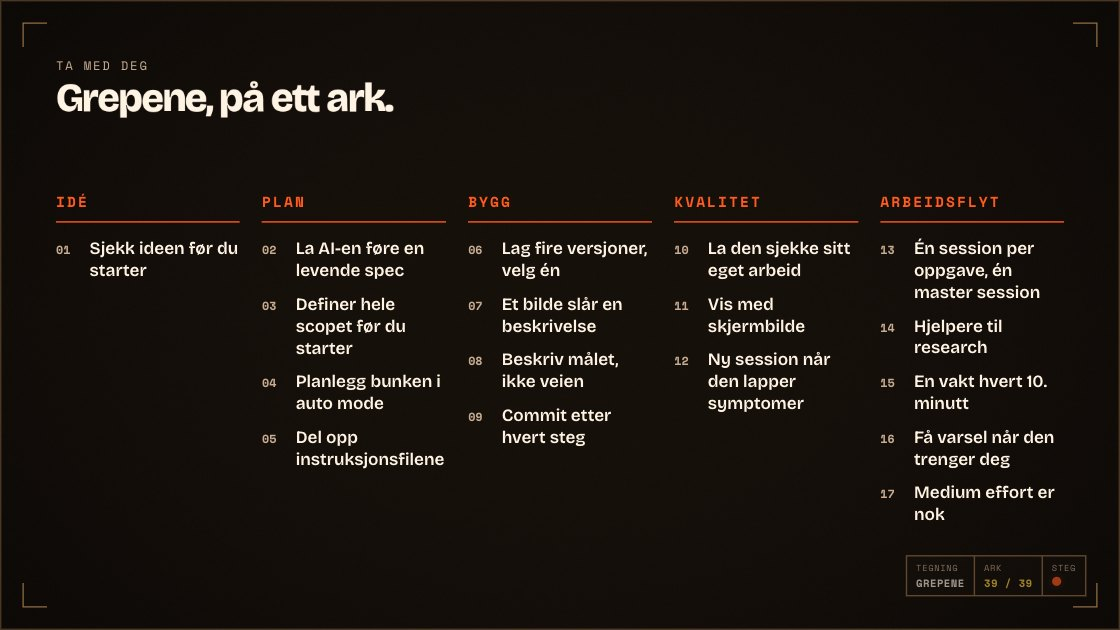
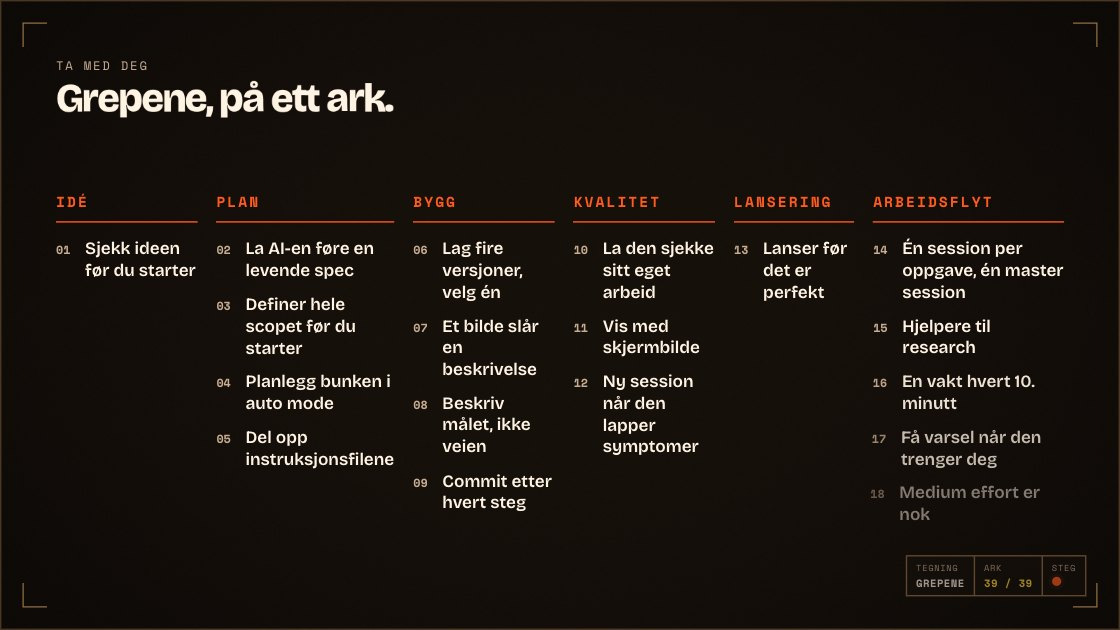
Takeaways: a Lansering column; column widths follow their tips

diff --git a/src/slides/takeaways.js b/src/slides/takeaways.js
@@ -5,7 +5,7 @@ import gsap from 'gsap';
   photograph. The second half of the subtitle ("ta med deg grepene til jobb i morgen").
   The stages light up one column at a time; on the last step everything is lit.
 
-  Layout: five columns (the four build stages with tips, and Arbeidsflyt) under the heading, x 80–1520, y 300–760 (DOM grid).
+  Layout: six columns (the five journey stages, and Arbeidsflyt) under the heading, x 80–1520, y 300–760 (DOM grid).
 */
 
 const GROUPS = [
@@ -13,6 +13,7 @@ const GROUPS = [
   { stage: 'Plan', tips: ['La AI-en føre en levende spec', 'Definer hele scopet før du starter', 'Planlegg bunken i auto mode', 'Del opp instruksjonsfilene'] },
   { stage: 'Bygg', tips: ['Lag fire versjoner, velg én', 'Et bilde slår en beskrivelse', 'Beskriv målet, ikke veien', 'Commit etter hvert steg'] },
   { stage: 'Kvalitet', tips: ['La den sjekke sitt eget arbeid', 'Vis med skjermbilde', 'Ny session når den lapper symptomer'] },
+  { stage: 'Lansering', tips: ['Lanser før det er perfekt'] },
   { stage: 'Arbeidsflyt', tips: ['Én session per oppgave, én master session', 'Hjelpere til research', 'En vakt hvert 10. minutt', 'Få varsel når den trenger deg', 'Medium effort er nok'] },
 ];
 
@@ -33,12 +34,12 @@ export default {
     el.innerHTML = `
       <style>
         .slide-takeaways .tk-grid { position: absolute; left: var(--pad); right: var(--pad); top: calc(var(--u) * 17);
-          display: grid; grid-template-columns: repeat(5, 1fr); gap: calc(var(--u) * 2); }
+          display: grid; grid-template-columns: 1fr 1.1fr 1fr 1fr .85fr 1.35fr; gap: calc(var(--u) * 1.7); }
         .slide-takeaways h3 { margin: 0 0 calc(var(--u) * 1.4); padding-bottom: calc(var(--u) * .8);
           border-bottom: 2px solid var(--accent); font: 700 calc(var(--u) * 1.3) var(--font-mono);
           letter-spacing: .14em; text-transform: uppercase; color: var(--accent); }
         .slide-takeaways ol { list-style: none; margin: 0; padding: 0; display: grid; gap: calc(var(--u) * 1.1); }
-        .slide-takeaways li { display: grid; grid-template-columns: calc(var(--u) * 3) 1fr; align-items: baseline;
+        .slide-takeaways li { display: grid; grid-template-columns: calc(var(--u) * 2.6) 1fr; align-items: baseline;
           font: 600 calc(var(--u) * 1.55)/1.25 var(--font-display); color: var(--fg); }
         .slide-takeaways .tk-n { font: 700 calc(var(--u) * 1.05) var(--font-mono); color: var(--muted); }
       </style>
